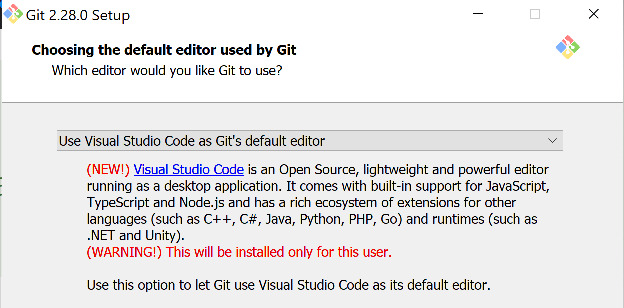
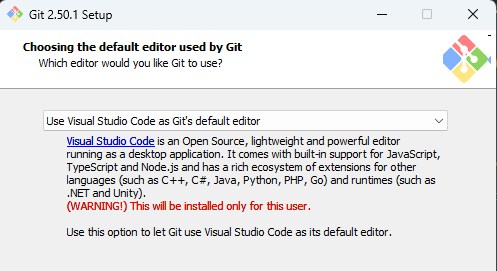
update screenshots

diff --git a/configure-vs-code.html b/configure-vs-code.html
@@ -2,7 +2,7 @@
   This step is pretty long. Ask for help if you run into any trouble!
 </div>
 
-<ol id="ol-1">
+<ol>
   <li>
     VS Code should start up and show you a welcome screen. You can customize the
     theme and explore the other new user suggestions if you like, but you can
@@ -11,13 +11,13 @@
   <li>
     <p>
       Click the <strong>Extensions</strong> icon in the sidebar on the left. It
-      is the one that has three connected squares, plus a fourth square floating
-      in the upper right:
+      is the one that has three connected squares, plus a tilted fourth square
+      floating in the upper right:
     </p>
 
     <img
       src="images/configure-vs-code-extensions-icon.png"
-      width="50"
+      width="68"
       alt="the VS Code extensions icon, as described above"
     />
   </li>
@@ -30,7 +30,6 @@
     <img
       src="images/configure-vs-code-search-java-extension.png"
       width="300"
-      ]
       alt="the VS Code search extensions field, with 'java' typed
          into it"
     />
@@ -55,53 +54,39 @@
     </p>
 
     <img
-      src="images/install-vs-code-extension-pack-java.png"
-      width="400"
+      src="images/configure-vs-code-extension-pack-java.png"
+      width="500"
       alt="screenshot of the Extension Pack for Java installation box"
     />
+    <!--   </li> -->
+    <!-- </ol> -->
+
+    <div class="reminder">
+      <p>
+        ⚠ <strong>CAUTION</strong> Be sure you getting Java,
+        <strong>not</strong> JavaScript! The two are very
+        <em>different</em> languages that just happen to have similar names.
+      </p>
+
+      <p>
+        (The latter was originally called “LiveScript,” but they changed the
+        name to “JavaScript” at the last second because they heard that
+        something big named “Java” was coming out soon, and they wanted to get
+        in on the action. See
+        <a href="https://en.wikipedia.org/wiki/JavaScript#History"
+          >Wikipedia on the history of JavaScript</a
+        >
+        for more details )
+      </p>
+
+      <p>
+        Both languages are useful and widely used, and you can install both in
+        VS Code if you want to. But <strong>Java</strong> is the one you will
+        need for this class.
+      </p>
+    </div>
   </li>
-</ol>
 
-<div class="reminder">
-  <p>
-    ⚠ <strong>CAUTION</strong> Be sure you getting Java,
-    <strong>not</strong> JavaScript! The two are very
-    <em>different</em> languages that just happen to have similar names.
-  </p>
-
-  <p>
-    (The latter was originally called “LiveScript,” but they changed the name to
-    “JavaScript” at the last second because they heard that something big named
-    “Java” was coming out soon, and they wanted to get in on the action. See
-    <a href="https://en.wikipedia.org/wiki/JavaScript#History"
-      >Wikipedia on the history of JavaScript</a
-    >
-    for more details )
-  </p>
-
-  <p>
-    Both languages are useful and widely used, and you can install both in VS
-    Code if you want to. But <strong>Java</strong> is the one you will need for
-    this class.
-  </p>
-</div>
-
-<script>
-  // We have one logical ordered list, and I want to interrupt it with
-  // the reminder div. I *could* just hard-code the start attribute on
-  // the second HTML 'ol' below, but that's brittle and the kind of
-  // thing that will fail to get updated if we change the number of
-  // steps in the first HTML 'ol'. So we do this, which is arguably silly overkill...
-  const firstList = document.getElementById("ol-1");
-  const secondList = document.getElementById("ol-2");
-  const count = firstList.querySelectorAll("li").length;
-  secondList.start = count + 1;
-
-  // FIXME this doesn't work, figure out why Need to have it at the end,
-  // after all the HTML elements are derfined...but that doesn't work. 🫤
-</script>
-
-<ol id="ol-2" start="5">
   <li>
     <strong>If you can’t find the Java extension pack</strong>, then try
     <a
@@ -128,7 +113,7 @@
 
     <img
       src="images/configure-vs-code-java-commands.png"
-      width="400"
+      width="500"
       alt="the VS Code command palette showing many different Java
     commands"
     />
@@ -173,7 +158,7 @@
 
         <img
           src="images/configure-vs-code-auto-save.png"
-          width="300"
+          width="550"
           alt="the VS Code auto save setting configuration"
         />
       </li>
@@ -188,7 +173,7 @@
 
         <img
           src="images/configure-vs-code-launch-mode.png"
-          width="400"
+          width="550"
           alt="the VS Code Launch Mode setting configuration"
         />
       </li>
@@ -204,7 +189,7 @@
 
         <img
           src="images/configure-vs-code-generatesmetadatafiles.png"
-          width="400"
+          width="550"
           alt="the VS Code
         generatesMetaDataFilesAtProjectRoot setting configuration"
         />

diff --git a/install-git-win.html b/install-git-win.html
@@ -6,8 +6,7 @@
 
   <li>
     <strong>Click the Download button</strong> for the latest release (which
-    might have a newer version number than the one in this screenshot): FIXME
-    get a new screenshot
+    might have a newer version number than the one in this screenshot):
 
     <img
       src="images/install-git-win-download.png"
@@ -28,6 +27,7 @@
 
     <img
       src="images/install-git-win-make-changes.png"
+      width="500"
       alt="Windows dialog box asking if Git for Windows can make changes to
      your device"
     />
@@ -43,7 +43,6 @@
 
     <img
       src="images/install-git-win-default-editor.png"
-      width="624"
       alt="dialog box for selecting the default editor used by git"
     />
   </li>
@@ -53,9 +52,12 @@
       When asked about the “initial branch name in new repositories”, please
       choose <strong>Override the default:</strong>
     </p>
-    FIXME
 
-    <img src="images/install-git-win-initial-branch.png" width="498" alt="" />
+    <img
+      src="images/install-git-win-initial-branch.png"
+      alt="dialog for adjusting the name of the initial branch in new
+         git repositories, overriding it to be 'main'"
+    />
   </li>
 
   <li>

diff --git a/verify-git.html b/verify-git.html
@@ -8,11 +8,10 @@
       Click the Source Control icon in the left side, which looks like three
       circles connected by two squiggles:
     </p>
-    FIXME need better screenshot here
 
     <img
       src="images/verify-git-source-control-icon.png"
-      width="245"
+      width="200"
       alt="the icon for 'source control', as described above"
     />
   </li>
@@ -21,11 +20,8 @@
 
     <img
       src="images/verify-git-not-found.png"
-      width="209"
-      alt="VS Code error message
-                                                      saying that a valid
-                                                  git installation was
-                                                  not found"
+      width="300"
+      alt="VS Code error message saying that a valid git installation was not found"
     />
 
     <p>
@@ -39,7 +35,7 @@
     If you see a message like this:<br />
     <img
       src="images/verify-git-its-working.png"
-      width="218"
+      width="300"
       alt="VS Code dialog telling the user to either open a folder or clone
      from a URL in order to use git features."
     />
